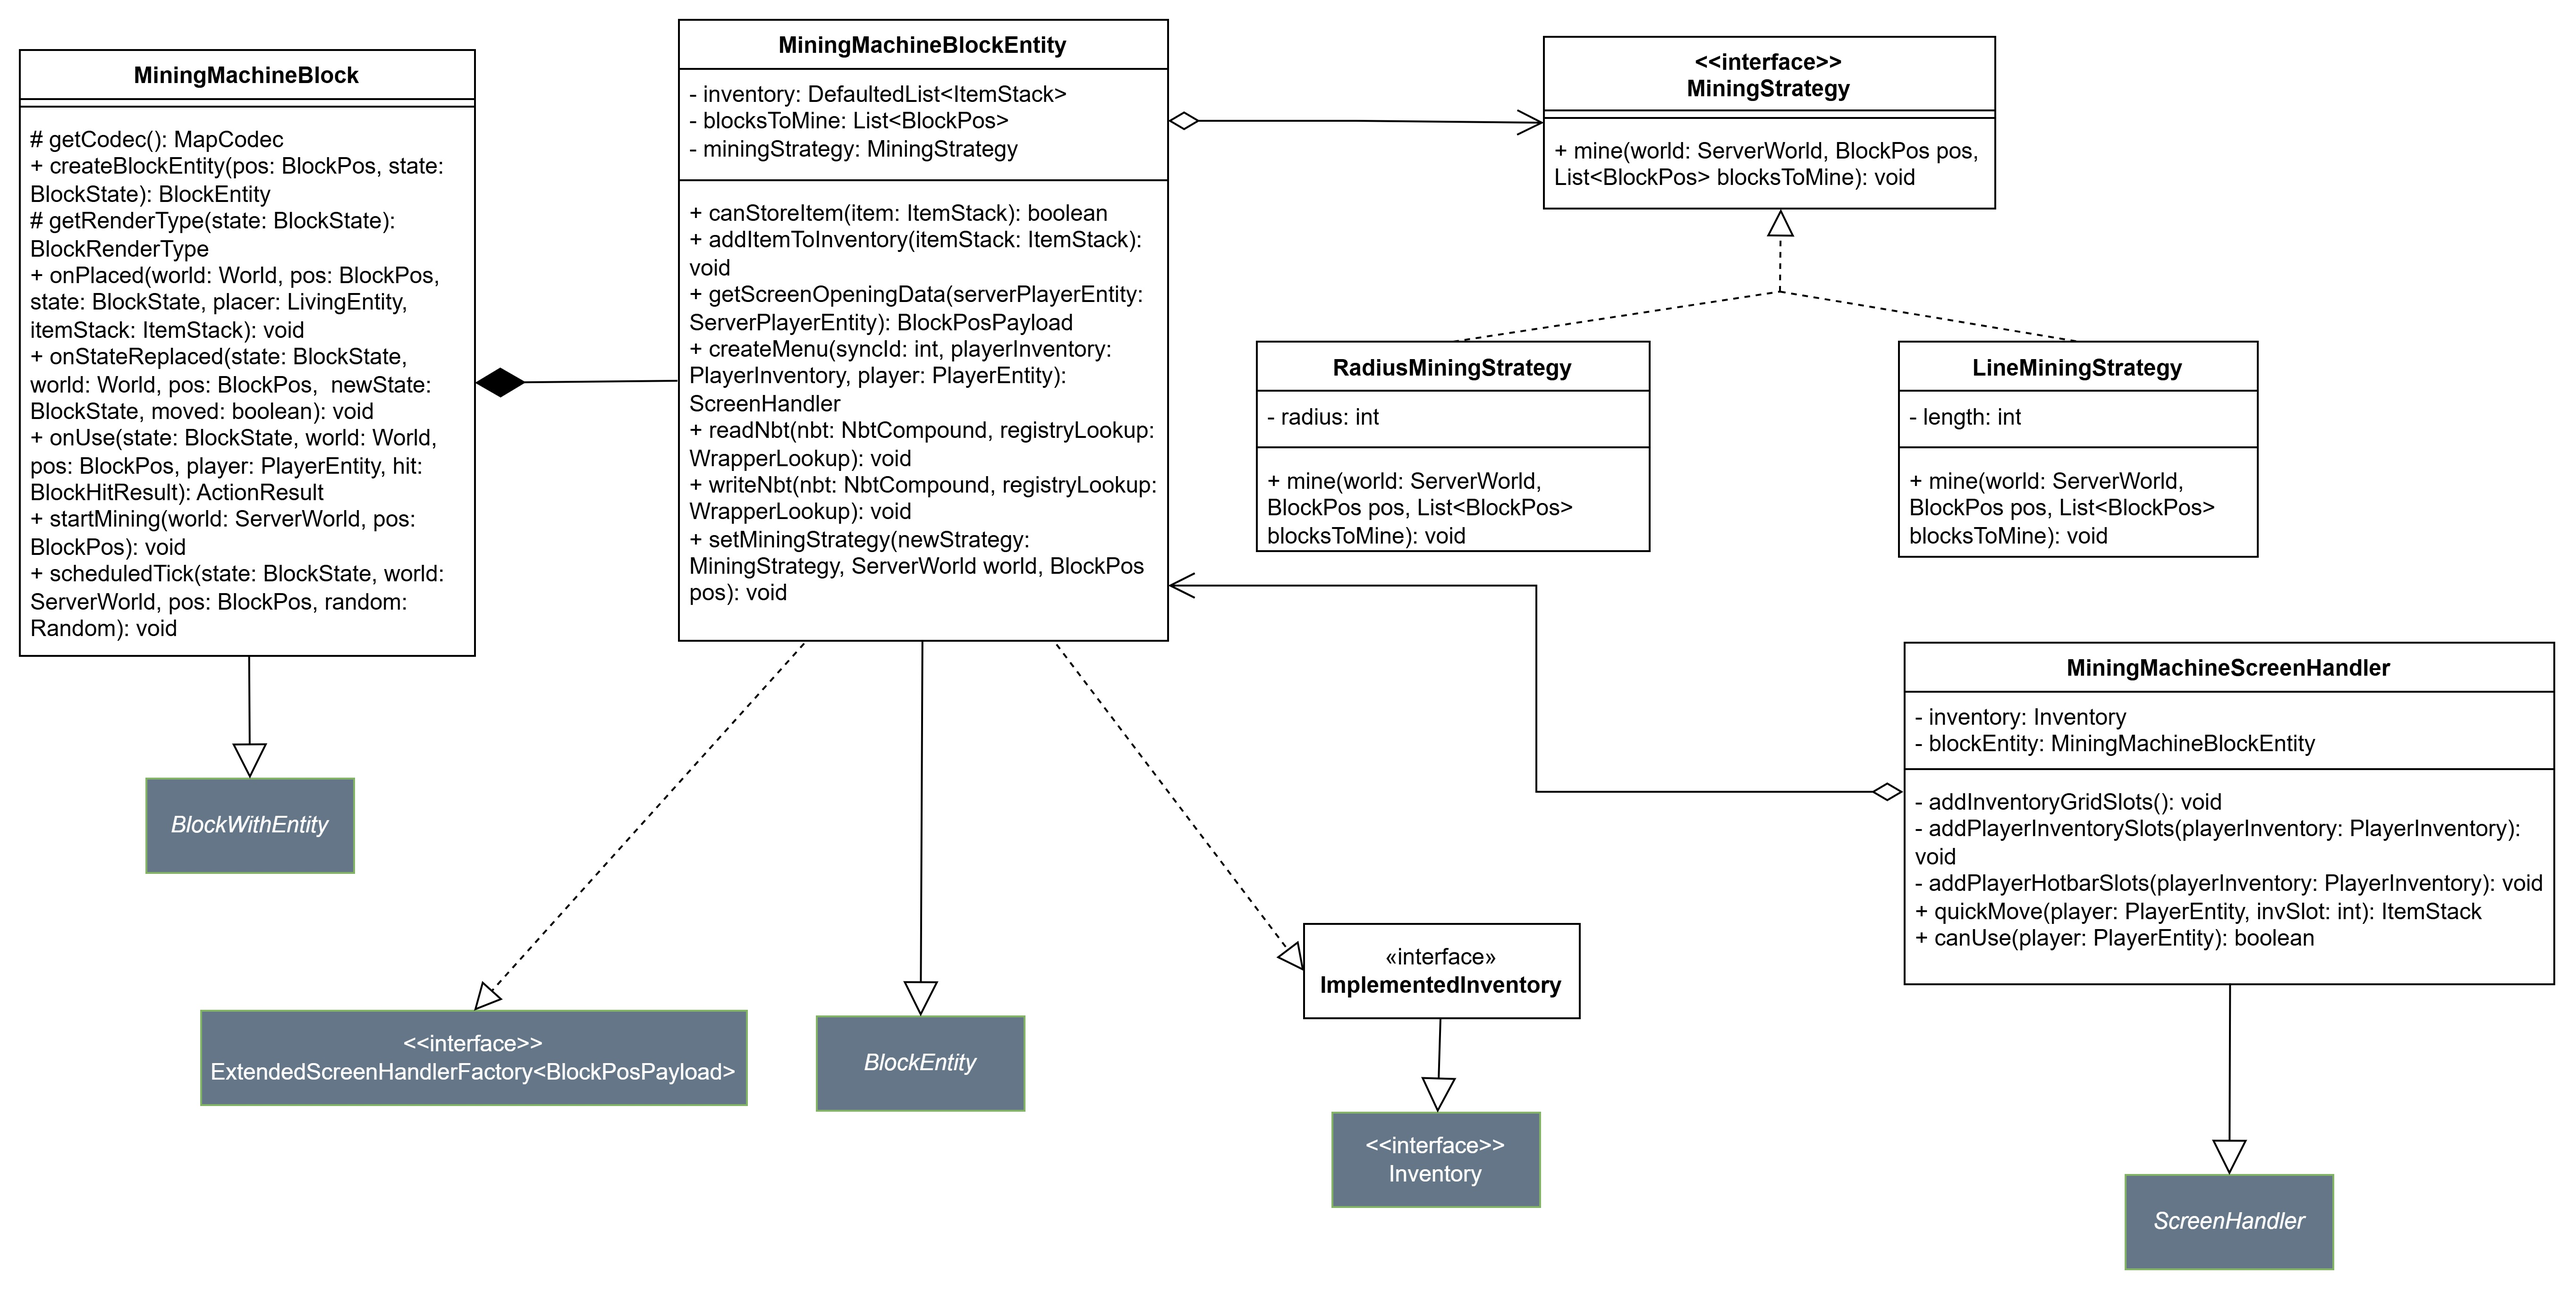
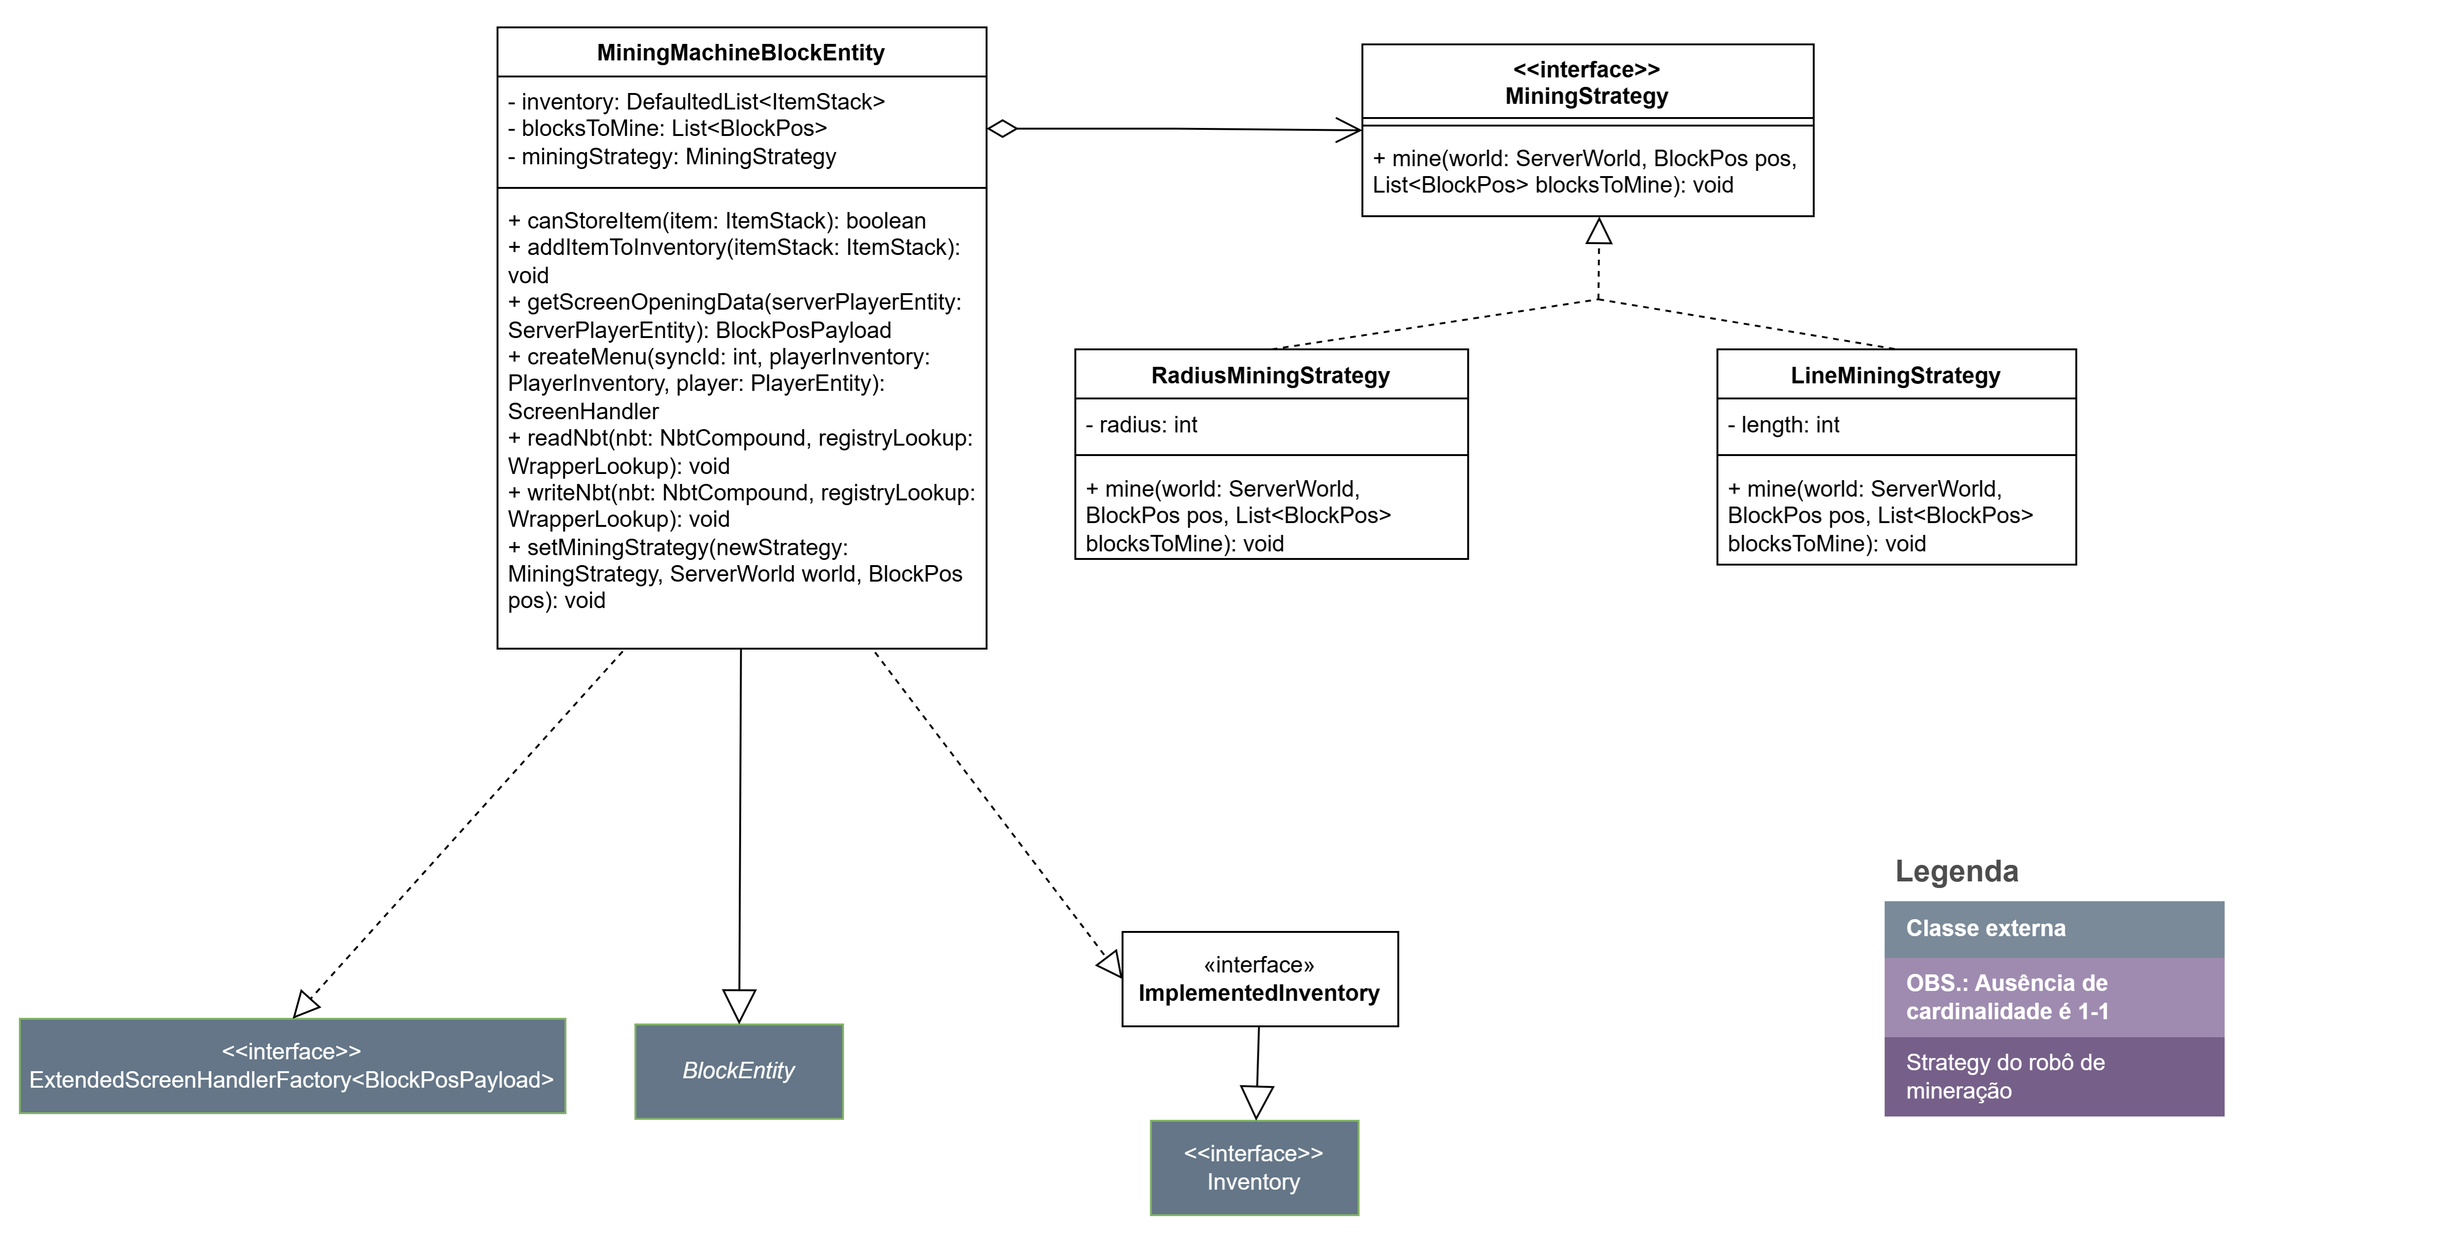
Adiciona diagramas simplificados do strategy

diff --git a/docs/Projeto/StrategyRegister.md b/docs/Projeto/StrategyRegister.md
@@ -165,7 +165,7 @@ public class ConcreteRegisterArmor implements StrategyRegister {
 <center>
 Figura 1 - Strategy
 
-![v2](https://raw.githubusercontent.com/UnBArqDsw2024-2/2024.2_G1_Logic_Thinkering_Entrega_03/refs/heads/main/assets/strategyregisterv2.png)
+![v2](https://raw.githubusercontent.com/UnBArqDsw2024-2/2024.2_G1_Logic_Thinkering_Entrega_03/refs/heads/main/assets/strategyregisterv3.png)
 
  <b>Fonte:</b> Carvalho, Sandes, 2025.
 </center>
@@ -248,6 +248,7 @@ Figura 1 - Strategy
 | Versão | Data da alteração |      Alteração       |                                                                           Responsável                                                                           | Revisor | Data de revisão |
 |:------:|:-----------------:| :------------------: | :-------------------------------------------------------------------------------------------------------------------------------------------------------------: | :-----: | :-------------: |
 |  1.0   |       02/01       | Criação do documento | [Eduardo Sandes](https://github.com/DiceRunner714), [Gabriela Lemos](https://github.com/heylisten64), [João Antonio G. Carvalho](https://github.com/i-JSS) |         |                 |
+|  1.0   |       04/01       | Adiciona versão simplificada do diagrama | [Cássio Reis](https://github.com/csreis72) |         |                 |
 
 </div>
 
